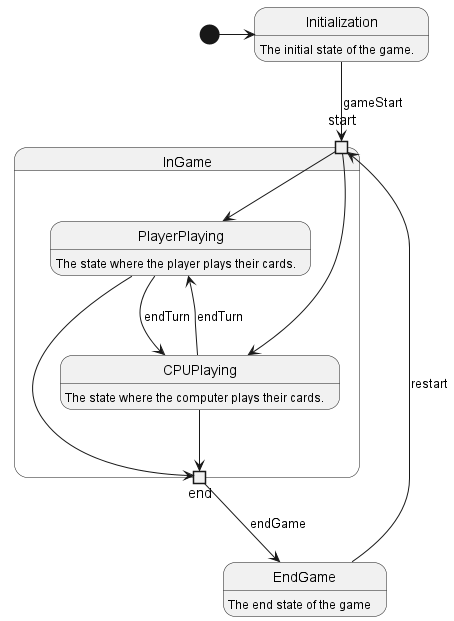
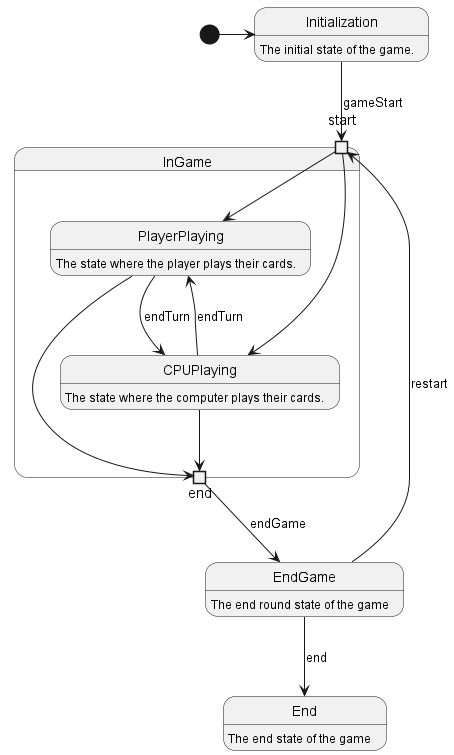
Notifications added, and README updated

diff --git a/README.md b/README.md
@@ -15,32 +15,70 @@ This project's goal is to create a (simplified) clone of the
 
 ## Structure
 
-This project currently has 3 general packages that describe the behavior of the base of a turn-based card game:
+This project currently has 4 general packages that describe the behavior of the base of a turn-based card game:
 
 * Cards
 * Board
 * Player
+* Controller
 
 ## Card
-In the cards, there are 2 general types that extend from a common interface: Weather Cards and Unit Cards. The latter are separated into a total of 3 different classifications:
+In the cards, there are 2 general types that extends from a common interface: Weather Cards and Unit Cards.
+The latter extends by an own interface, and are separated into a total of 3 different classifications:
 
 * MeleeCard: is a melee combat card.
 * RangedCard: is a ranged combat card.
 * SiegeCard: is a siege card.
 
-Each of these currently has only one double dispatch method to resolve the type of each card to be played from a board, which will be discussed later.
+Unit cards are identified by their name and their strength, which defines the power of each card. In contrast, weather cards are only identified by their name.
+All cards have a default null effect that can be changed using the setEffect method, which only accepts effects corresponding to the general type of the card.
+Furthermore, these cards are effect observables, which means they will notify their respective observers (board sections) its own effect.
+
+### Effects
+
+An Effect is a common interface that is extended by two other interfaces representing the effects of unit cards and weather cards.
+The Unit Card Effects are designed to be applied to a single CardList, while the Weather Card Effects are designed using the visitor pattern.
+This allows them to visit all the CardList on the board and act in a specific way for each, depending on the effect.
+By default, each of these methods is defined as empty in an abstract class, so they can be overridden later to specify what to do in each specific CardList.
 
 ## Board
 
-The board consists of 2 classes: the first is a board section, and the second is the board itself, which has 2 board sections. The behaviors are explained below:
+The board consists of 3 classes:
+The Board consists of two player sections, each with a slot for placing weather cards.
+Additionally, there is a BoardSection that contains 3 lists of cards, one for each type of unit card.
+Finally, there are the CardList, with one list for each type of unit card, implemented as subclasses of CardList.
 
-* Board: has 2 public board sections for each player, and one weather type card; this last one is defined this way since both board sections must share a common area to place weather cards. This class is responsible for handling weather cards.
-* BoardSection: in its constructor it receives a board to handle the weather card area, and also has 3 private areas for each type of unit card. This class is responsible for handling the plays of cards on the board.
+* Board: It has two board sections and a weather card zone.
+* BoardSection: It has 3 CardList, one for each type of unit card, and its constructor receives a board so that the player assigned to this section can interact indirectly with it.
+* CardList: It possesses a card list parameterized by a generic type and has functionalities to add cards and to check if it contains a specific card. This class extends an Effect Observer and acts according to the notifications of the cards that enter the class, obtaining their effects (only weather effects).
+* MeleeZone: A subclass of CardList parameterized by melee cards.
+* RangedZone: A subclass of CardList parameterized by ranged cards.
+* SiegeZone: A subclass of CardList parameterized by siege cards.
 
 
 ## Player
 
 The player is a class that is identified by their name. In its constructor it receives its name, a gem counter, and its deck and hand of cards. The player has the ability to shuffle their deck, play a card on the board and also has their respective methods to handle those attributes.
+The player extends from a Notification Observable, this allowing it to subscribe to Notification Observers and send its message, for example, to the Controller.
+
+## Controller
+
+The controller is a class that allows handling the game states, performing the corresponding transitions for each stage of the game. This class extends from a Notification Observer.
+In this case, when a player is subscribed to this class, it will notify the controller when the player has 0 gems or, in the case of having negative gems, to trigger the end state of the game.
+
+### States
+
+The states are subclasses of the State class, which are defined for each stage of the game with their corresponding transitions.
+
+Below is the state diagram:
+
+
+<div style="text-align: center;"> <h2> State Diagram: </h2> 
+
+![State.png](src%2FState.png)
+
+</div>
+
 
 <div style="text-align: center;"> <h2> UML : </h2> 
 
@@ -48,8 +86,3 @@ The player is a class that is identified by their name. In its constructor it re
 
 </div>
 
-<div style="text-align: center;"> <h2> State Diagram: </h2> 
-
-![State.png](src%2FState.png)
-
-</div>
